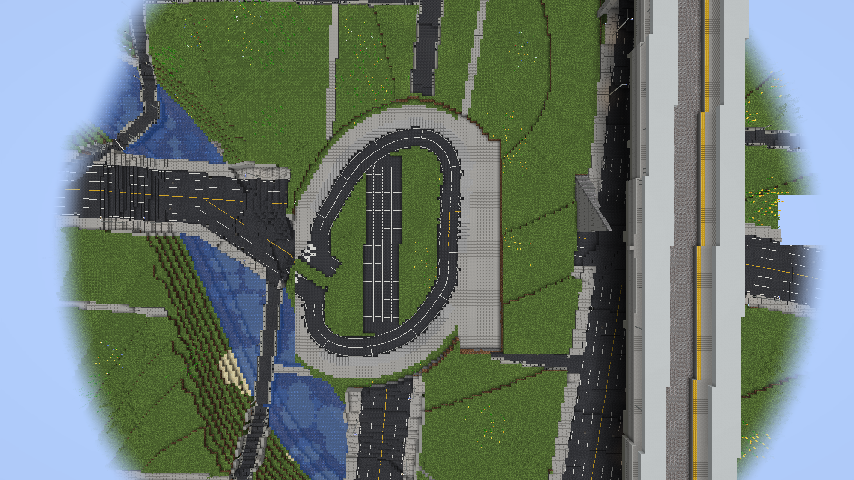
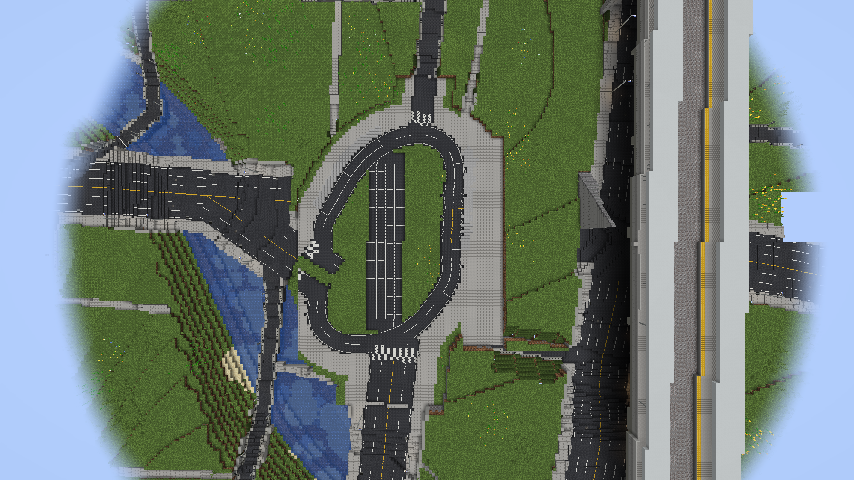
Streets running up to a station square joined to its loop, a zebra where they cross its pavement

Changed region(s): [[0.0609, 0.0, 0.9742, 1.0]]

diff --git a/core/src/main/java/com/mtm/citybuilder/core/street/StationPlaza.java b/core/src/main/java/com/mtm/citybuilder/core/street/StationPlaza.java
@@ -99,6 +99,13 @@ public record StationPlaza(Template template, double x, double z, double heading
         boolean free(double u, double v);
     }
 
+    /**
+     * A street running up to the square, to be joined to its loop: its end ({@code u}, {@code v}) in the frame (on the
+     * square's land or just short of it), its way on into the square {@code du}, {@code dv}, its width.
+     */
+    public record Entry(double u, double v, double du, double dv, double width) {
+    }
+
     /** A rectangle in the square's frame. */
     public record Rect(double u1, double v1, double u2, double v2) {
         public boolean contains(double u, double v) {
@@ -463,6 +470,13 @@ public record StationPlaza(Template template, double x, double z, double heading
                 (u, v) -> true);
     }
 
+    /** Lays a square out by its template, no street joined to its loop but the avenue. */
+    public static StationPlaza lay(Template template, double x, double z, double heading, int side, double siteWidth,
+                                   int lines, CitySettings.Plazas config, double avenue, double mouthU, double[] out,
+                                   long seed, Free free) {
+        return lay(template, x, z, heading, side, siteWidth, lines, config, avenue, mouthU, out, seed, free, List.of());
+    }
+
     /** A loop's middle and its stadium: {u, v, half the straights, radius}. */
     private record Stadium(double u, double v, double half, double radius) {
     }
@@ -477,10 +491,11 @@ public record StationPlaza(Template template, double x, double z, double heading
      * @param out       the avenue's way out of the mouth, {du, dv} in the frame
      * @param seed      the square's own seed, for the loops' shapes
      * @param free      where the square may lie: not on water nor over an arterial
+     * @param entries   the streets running up to it, each joined to its loop where it can be
      */
     public static StationPlaza lay(Template template, double x, double z, double heading, int side, double siteWidth,
                                    int lines, CitySettings.Plazas config, double avenue, double mouthU, double[] out,
-                                   long seed, Free free) {
+                                   long seed, Free free, List<Entry> entries) {
         double lane = config.lane;
         double walk = config.walk;
         double berth = config.berth;
@@ -630,6 +645,10 @@ public record StationPlaza(Template template, double x, double z, double heading
                 }
             }
         }
+        // The streets running up to it joined to its loops, on land of their own where they run short of it
+        if (!entries.isEmpty()) {
+            land = join(entries, land, loops, links, crossings, berths, building, forecourt, walk);
+        }
         land = trim(land, building, forecourt, loops, links, 0.5 * lane + walk + CANOPY + 2.0);
         double fromU = land.u0 + land.width;
         double toU = land.u0;
@@ -643,6 +662,144 @@ public record StationPlaza(Template template, double x, double z, double heading
         }
         return new StationPlaza(template, x, z, heading, side, front, end - front, fromU, toU, mouthU, building,
                 forecourt, land, loops, links, berths, pools, crossings);
+    }
+
+    /** How far past the square's land a street joined to it may end. */
+    private static final int ENTRY_REACH = 24;
+
+    /**
+     * Joins the streets running up to the square to its loops: each on from its end (back to the land's edge where it
+     * ends on the land) along its own way, else turned at most 50 degrees to the loop's middle, to the loop's centre
+     * line; with a zebra over it where the loop's pavement crosses. Not where it would run through the building or the
+     * forecourt or over another link, nor meet a loop beside the throat or another street joined; the berths it cuts
+     * dropped. Returns the land grown by the joining links.
+     */
+    private static Land join(List<Entry> entries, Land land, List<Loop> loops, List<Link> links, List<Crossing> crossings,
+                             List<Berth> berths, Rect building, Rect forecourt, double walk) {
+        int margin = ENTRY_REACH;
+        int width = land.width + 2 * margin;
+        int height = land.height + 2 * margin;
+        BitSet cells = new BitSet(width * height);
+        for (int i = 0; i < land.width; i++) {
+            for (int j = 0; j < land.height; j++) {
+                if (land.cells.get(i * land.height + j)) {
+                    cells.set((i + margin) * height + j + margin);
+                }
+            }
+        }
+        Land grown = new Land(land.u0 - margin, land.v0 - margin, width, height, cells);
+        List<Link> fixed = new ArrayList<>(links);
+        // The arc lengths round each loop taken, {loop, arc, half-width}: the throats' first
+        List<double[]> taken = new ArrayList<>();
+        double widest = 0.0;
+        for (Link link : links) {
+            widest = Math.max(widest, link.width());
+        }
+        for (int k = 0; k < loops.size(); k++) {
+            taken.add(new double[]{k, loops.get(k).throat, 0.5 * widest});
+        }
+        for (Entry e : entries) {
+            double length = Math.hypot(e.du(), e.dv());
+            if (length < 1e-9) {
+                continue;
+            }
+            double du = e.du() / length;
+            double dv = e.dv() / length;
+            // From the land's edge behind its end, else its end
+            double su = e.u();
+            double sv = e.v();
+            for (double back = 0.0; back < 40.0 && land.contains(e.u() - du * back, e.v() - dv * back); back += 0.5) {
+                su = e.u() - du * (back + 0.5);
+                sv = e.v() - dv * (back + 0.5);
+            }
+            // The nearest loop
+            int which = -1;
+            double nearest = Double.POSITIVE_INFINITY;
+            for (int k = 0; k < loops.size(); k++) {
+                double r = loops.get(k).radial(su, sv);
+                if (r < nearest) {
+                    nearest = r;
+                    which = k;
+                }
+            }
+            if (which < 0 || nearest > 60.0) {
+                continue;
+            }
+            Loop loop = loops.get(which);
+            double t = march(loop, su, sv, du, dv, 0.0);
+            if (Double.isNaN(t) || t > 60.0) {
+                double tu = loop.u - su;
+                double tv = loop.v - sv;
+                double d = Math.hypot(tu, tv);
+                if (d < 1e-9 || (tu * du + tv * dv) / d < Math.cos(Math.toRadians(50))) {
+                    continue;
+                }
+                du = tu / d;
+                dv = tv / d;
+                t = march(loop, su, sv, du, dv, 0.0);
+                if (Double.isNaN(t) || t > 60.0) {
+                    continue;
+                }
+            }
+            double outer = march(loop, su, sv, du, dv, 0.5 * loop.lane);
+            double pavement = march(loop, su, sv, du, dv, 0.5 * loop.lane + walk);
+            if (Double.isNaN(outer)) {
+                continue;
+            }
+            Link link = new Link(su, sv, su + du * t, sv + dv * t, e.width(), walk(e.width()), 0.0);
+            // Clear of the building, the forecourt, the other links and loops until it meets its loop's carriageway
+            boolean clear = true;
+            for (double a = 0.0; a <= outer && clear; a += 0.5) {
+                for (double c = -0.5 * e.width(); c <= 0.5 * e.width() && clear; c += 0.5) {
+                    double pu = su + du * a - dv * c;
+                    double pv = sv + dv * a + du * c;
+                    clear = !building.contains(pu, pv) && !forecourt.contains(pu, pv);
+                    for (Link other : fixed) {
+                        clear &= !other.contains(pu, pv);
+                    }
+                    for (int k = 0; k < loops.size(); k++) {
+                        clear &= k == which || loops.get(k).radial(pu, pv) > 0.5 * loops.get(k).lane + walk;
+                    }
+                }
+            }
+            if (!clear) {
+                continue;
+            }
+            // Not beside the throat or another joined street round the loop
+            double arc = loop.arc(su + du * t, sv + dv * t);
+            double perimeter = loop.perimeter();
+            boolean apart = true;
+            for (double[] other : taken) {
+                if ((int) other[0] != which) {
+                    continue;
+                }
+                double gap = Math.abs(arc - other[1]) % perimeter;
+                gap = Math.min(gap, perimeter - gap);
+                apart &= gap > 0.5 * e.width() + other[2] + 6.0;
+            }
+            if (!apart) {
+                continue;
+            }
+            taken.add(new double[]{which, arc, 0.5 * e.width()});
+            fixed.add(link);
+            links.add(link);
+            double from = Double.isNaN(pavement) ? Math.max(0.0, outer - walk) : pavement;
+            crossings.add(new Crossing(null, false, link, Math.max(0.0, Math.min(from, outer - 1.0)), outer));
+            int k = which;
+            berths.removeIf(b -> b.loop == k && b.use != Use.DROP_OFF
+                    && b.holds(arc, perimeter, 0.5 * e.width() + 1.0));
+            // Its own land, where it runs short of the square's
+            for (double a = 0.0; a <= t; a += 0.5) {
+                for (double c = -0.5 * e.width(); c <= 0.5 * e.width(); c += 0.5) {
+                    int i = (int) Math.floor(su + du * a - dv * c) - grown.u0;
+                    int j = (int) Math.floor(sv + dv * a + du * c) - grown.v0;
+                    if (i >= 0 && j >= 0 && i < width && j < height) {
+                        cells.set(i * height + j);
+                    }
+                }
+            }
+        }
+        return grown;
     }
 
     /**

diff --git a/core/src/main/java/com/mtm/citybuilder/core/street/StreetLayer.java b/core/src/main/java/com/mtm/citybuilder/core/street/StreetLayer.java
@@ -2200,15 +2200,94 @@ public final class StreetLayer {
                 }
                 return true;
             };
-            plazas.add(StationPlaza.lay(front.template(), station.x(), station.z(), heading, side,
+            long squareSeed = Hash.of(logic.seed(), Double.doubleToLongBits(station.x()), Double.doubleToLongBits(station.z()));
+            StationPlaza first = StationPlaza.lay(front.template(), station.x(), station.z(), heading, side,
                     transit.mainWidth, Math.max(1, lines), logic.settings().plazas, avenue, front.shift(), out,
-                    Hash.of(logic.seed(), Double.doubleToLongBits(station.x()), Double.doubleToLongBits(station.z())),
-                    free));
-            // The square's land is its own: the streets in it end at its edge
-            StationPlaza square = plazas.get(plazas.size() - 1);
-            segments.removeIf(g -> square.contains(0.5 * (g.x1() + g.x2()), 0.5 * (g.z1() + g.z2())));
+                    squareSeed, free);
+            // The square's land is its own: the streets in it end at its edge, and those cars use are joined to its
+            // loop (laid again with them)
+            java.util.Set<StreetSegment> inside = java.util.Collections.newSetFromMap(new java.util.IdentityHashMap<>());
+            for (StreetSegment g : segments) {
+                if (first.contains(0.5 * (g.x1() + g.x2()), 0.5 * (g.z1() + g.z2()))) {
+                    inside.add(g);
+                }
+            }
+            List<StationPlaza.Entry> entries = entries(first, segments, inside, mouth, avenue);
+            StationPlaza square = entries.isEmpty() ? first : StationPlaza.lay(front.template(), station.x(), station.z(),
+                    heading, side, transit.mainWidth, Math.max(1, lines), logic.settings().plazas, avenue, front.shift(),
+                    out, squareSeed, free, entries);
+            plazas.add(square);
+            segments.removeIf(inside::contains);
         }
         return plazas;
+    }
+
+    /** Whether cars use a street piece: not a lane, footpath, steps or bridge. */
+    private static boolean carried(StreetSegment g) {
+        return g.streetClass() != StreetClass.PATH && g.streetClass() != StreetClass.LANE
+                && g.structure() != StreetStructure.STAIRS && g.structure() != StreetStructure.BRIDGE;
+    }
+
+    /**
+     * The streets cars use running up to a square, to be joined to its loop: a kept piece's end on its land (the piece
+     * on into it), or a kept piece's end where a piece the square takes leaves it (on along the piece taken); not the
+     * avenue at its mouth. In the square's frame, nearest the station first.
+     */
+    private static List<StationPlaza.Entry> entries(StationPlaza square, List<StreetSegment> segments,
+                                                    java.util.Set<StreetSegment> inside, double[] mouth, double avenue) {
+        double ax = Math.cos(square.heading());
+        double az = Math.sin(square.heading());
+        List<double[]> found = new ArrayList<>();
+        for (StreetSegment g : segments) {
+            if (inside.contains(g) || !carried(g)) {
+                continue;
+            }
+            for (int end = 0; end < 2; end++) {
+                double px = end == 0 ? g.x1() : g.x2();
+                double pz = end == 0 ? g.z1() : g.z2();
+                double ox = end == 0 ? g.x2() : g.x1();
+                double oz = end == 0 ? g.z2() : g.z1();
+                if (Math.hypot(px - mouth[0], pz - mouth[1]) < 0.5 * avenue + 4.0) {
+                    continue;
+                }
+                double dx = Double.NaN;
+                double dz = Double.NaN;
+                if (square.contains(px, pz)) {
+                    dx = px - ox;
+                    dz = pz - oz;
+                } else {
+                    for (StreetSegment r : inside) {
+                        if (Math.hypot(r.x1() - px, r.z1() - pz) < 0.5) {
+                            dx = r.x2() - px;
+                            dz = r.z2() - pz;
+                        } else if (Math.hypot(r.x2() - px, r.z2() - pz) < 0.5) {
+                            dx = r.x1() - px;
+                            dz = r.z1() - pz;
+                        }
+                    }
+                }
+                if (Double.isNaN(dx) || Math.hypot(dx, dz) < 1e-9) {
+                    continue;
+                }
+                boolean known = false;
+                for (double[] f : found) {
+                    known |= Math.hypot(f[0] - px, f[1] - pz) < 0.5 * Math.max(f[4], g.width()) + 2.0;
+                }
+                if (!known) {
+                    found.add(new double[]{px, pz, dx, dz, g.width()});
+                }
+            }
+        }
+        found.sort((a, b) -> Double.compare(Math.hypot(a[0] - square.x(), a[1] - square.z()),
+                Math.hypot(b[0] - square.x(), b[1] - square.z())));
+        List<StationPlaza.Entry> entries = new ArrayList<>();
+        for (double[] f : found) {
+            double[] at = square.local(f[0], f[1]);
+            double du = f[2] * ax + f[3] * az;
+            double dv = square.side() * (-f[2] * az + f[3] * ax);
+            entries.add(new StationPlaza.Entry(at[0], at[1], du, dv, f[4]));
+        }
+        return entries;
     }
 
     /** Points every {@code spacing} blocks along a line, its two ends included, as {x, z}. */

diff --git a/core/src/test/java/com/mtm/citybuilder/core/street/StationPlazaTest.java b/core/src/test/java/com/mtm/citybuilder/core/street/StationPlazaTest.java
@@ -113,11 +113,42 @@ class StationPlazaTest {
         }
     }
 
+    /** {@link #bounded} with a street 8 wide running up to its +u side, square on, a few blocks short of its land. */
+    private static StationPlaza joined(StationPlaza.Template template, long seed) {
+        StationPlaza plain = bounded(template, seed);
+        StationPlaza.Loop loop = plain.loops().get(0);
+        double shift = StationPlaza.mouthShift(template, CONFIG, 0.9);
+        double angle = Math.toRadians(30);
+        return StationPlaza.lay(template, 1000.5, -2000.5, Math.toRadians(30), -1, SITE, 2, CONFIG, 30.0, shift,
+                new double[]{Math.sin(angle), Math.cos(angle)}, seed, StationPlazaTest::besideArterial,
+                List.of(new StationPlaza.Entry(plain.to() + 4.0, loop.v(), -1.0, 0.0, 8.0)));
+    }
+
+    @Test
+    void sideStreetsJoinTheLoop() {
+        for (StationPlaza.Template template : List.of(StationPlaza.Template.TURNING_CIRCLE, StationPlaza.Template.ROTARY)) {
+            StationPlaza plain = bounded(template, 7L);
+            StationPlaza plaza = joined(template, 7L);
+            assertEquals(plain.links().size() + 1, plaza.links().size(), template + " the street not joined");
+            StationPlaza.Link link = plaza.links().get(plaza.links().size() - 1);
+            // Driven from its end to the loop, a zebra over it by the loop
+            for (double a = 0.0; a <= link.length(); a += 0.5) {
+                double f = a / link.length();
+                double u = link.u1() + (link.u2() - link.u1()) * f;
+                double v = link.v1() + (link.v2() - link.v1()) * f;
+                assertTrue(driven(plaza.partAt(u, v)), template + " the joining street at " + u + ", " + v + ": " + plaza.partAt(u, v));
+            }
+            assertTrue(plaza.crossings().stream().anyMatch(c -> c.link() == link), template + " no zebra");
+            assertTrue(plaza.to() > plain.to() + 3.0, template + " the land not grown to the street's end");
+        }
+    }
+
     @Test
     void berthsKeepApartAndClearOfTheThroat() {
         for (StationPlaza plaza : List.of(lay(StationPlaza.Template.TURNING_CIRCLE, 1), lay(StationPlaza.Template.ROTARY, 3),
                 lay(StationPlaza.Template.TERMINAL, 3), bounded(StationPlaza.Template.ROTARY, 7L),
-                bounded(StationPlaza.Template.TURNING_CIRCLE, 3L))) {
+                bounded(StationPlaza.Template.TURNING_CIRCLE, 3L), joined(StationPlaza.Template.ROTARY, 7L),
+                joined(StationPlaza.Template.TURNING_CIRCLE, 7L))) {
             for (int k = 0; k < plaza.loops().size(); k++) {
                 StationPlaza.Loop loop = plaza.loops().get(k);
                 double perimeter = loop.perimeter();

diff --git a/CLAUDE.md b/CLAUDE.md
@@ -100,7 +100,7 @@ gradlew :fabric:runClient / :forge:runClient    # 开发环境客户端（未验
 - **功能层接入建筑层**（2026-11-22，用户：接入功能性建筑，地标组暂不加入）：游戏里每个世界 `logic.buildings().useFunctions()`（`CityWorlds`），建筑层的 `QuarterMap` 换成 `building.FunctionQuarters`（按城，`QuarterMap.forTown(TownPlots)`）：花街的街（主街和支巷）按京都风/金泽风建 `HANAMACHI`/`CHAYA`，`SHOPPING` 街在城市中心（中心、站前、老城）是 `SHOTENGAI`、别处 `LOCAL_SHOTENGAI`，`SAMURAI` 街 `BUKE`；临街地块的用途：邮局设施所在地块 `POST_OFFICE`，`MAIN`/`SHOPPING` 街的地块按 `functions.konbini` 0.035 给便利店、`MAIN` 街再 `fastFood` 0.008 给快餐（花街除外）。整栋生成的公共建筑在 `building.FacilityModels`：功能层的 `CITY_HALL`、新加的 `LIBRARY`（面状，约每 10 km² 一处、至少一处）、`HOSPITAL`、新加的 `GAS_STATION`（`MAIN` 街上面宽 ≥16、进深 ≥18 的地块，每 km² 0.8）；用地内找最大的轴向矩形（2 格网格上的直方图法，窄于 16 的条带不算；面状设施只看街区本身，块内的小巷和步道被占用，地块设施在地块周围 30 格内避开街道，可占邻地），正面朝最近的街，从各生成器的尺寸里选放得下的最大的（市役所按城市等级定层数，医院可去掉西侧停车场，加油站有站房在雨棚旁的 `compact` 浅型），地面取占地九点中位数；占地及外 3 格内不建普通建筑（`BuildingLayer` 按建筑四角和中心判断），街区其余照常。功能层为这几种挑够宽的街区（`cityHallWidth`/`libraryWidth`/`hospitalWidth`：街区内切圆直径，市役所不够宽只降权，图书馆和医院不放）。区块里由 `CityBuildings.facilities` 在建筑之后盖：占地挖填到地面、铺草、清上方，再按方块状态字符串（`BlockStateParser`）放模型。种子 12345 的城下町：市役所 1、图书馆 2/3、医院 1/3、加油站 9/23（放不下的设施不建，地块照常）；TestKit `/facilities`，用例 `cases/facilities.spec.mjs`（截图 `docs/screens/facility-*.png`），测试 `FacilityModelsTest`。地标（城、塔、PLATEAU 体素）还没接。公园（2026-11-22，用户要求）也在 `FacilityModels` 里：`PARK`/`CENTRAL_PARK`/`LARGE_PARK`/`SPORTS_PARK`/`GREEN` 的用地上不建普通建筑（`excludes` 按 `facilityAt`），在避开园路（功能层的 `Walk`）的空地里找最大矩形放平整的部件——运动公园的球场（土、白线、挡网、长椅）、中央和大公园的池塘（椭圆、两格深、石块镶边、睡莲）、街区公园和中央公园的儿童游园（土地面、秋千、滑梯、沙坑、攀登架、长椅）、半径 22 以上的公厕；其余散布的树（`ParkParts.Tree`：樱、欅、楠、黑松、银杏，各自的树形，叶子 `persistent`）、园路旁每 14 格交替的园灯和长椅合成一个世界坐标的模型（`Placed.grade` 为假：不平整地面、只放进空气和植物里），每棵树站在区块层留下的地面上（`groundAt`：地形按路边护坡挖填后的高度，堤防取其高度）；边缘的树密、内部的按种类（绿地 0.85，大公园 0.5，街区公园 0.12）。部件在 `building.landmark.ParkParts`。铺装和装饰（同日）：园路（`Walk` 铺成的 PATH 列）按所在设施换铺装（`CityChunks.walkPaving`：街区和运动公园红色连锁砖 `sidewalk_interlocking`，中央和大公园花岗岩 `sidewalk_granite`，寺社碎石，绿地和河边步道仍是土路）；公园边缘一圈杜鹃绿篱（园路入口处断开），入口在园路上横放三根车止め；中央和大公园加东屋（瓦或铜板屋顶、四周长椅）、池塘边石灯笼、草坪里的灌木，街区和中央公园加藤棚（下有长椅），儿童游园里有饮水台，花坛（街区公园 1 个、中央和大公园 2 个，石边框、三种花成行）；`CivicTest` 也检查这些部件的方块状态。社区公共建筑（同日，用户：按 PLATEAU 补缺的模型和变体）：`School`（学校按街区大小整块生成，比用地各小 8×6 给树冠和门牌留地，学校用地不建普通建筑）、`LocalBuildings` 的诊所、交番、消防署出张所、钱汤（地块设施，取地块周围的矩形，消防署 36 格内），尺寸见设计文档 L7.5"社区公共建筑的尺寸"（`tools/assets/plateau_facilities.py`）；种子 12345 城下町放下学校 29/42、诊所 81/175、交番 38/44、消防署 6/12、钱汤 7/23。公园的规模和园路按 OSM 实测校准（设计文档 L7.5"公园的规模和园路"，`tools/assets/osm_parks.py`，数据在 `core/build/osm/<城>-parks.json`）：近隣尺度的 `PARK`、整块生成的街区公园 `POCKET_PARK`（`ParkParts.pocketPark`）、城址公园 `CASTLE_PARK`（城的 `GROUNDS` 区洪泛成地，兼作中央公园，本丸 `ParkParts.honmaru`，不长天然树）。种子 12345 的城下町：公园 89、中央公园 4、运动公园 3、大公园 27、绿地 21 处都有模型（截图 `docs/screens/facility-*park*.png`、`facility-green-above.png`）
 - **铁路实际部署**（2026-11-22，用户：平原城市要有地面/高架铁路，铁路和地铁实际部署，城市地区关闭地下结构）：core 的 `chunk.RailChunks`（`ChunkLayer.rails()`）把 L5 的城内线路（`urbanLines`、城际线的城内段 `railways`、主站站台）和城外的 L4b 路线（`railRoute`，按 2048 区域查、按区块建索引，`CityPlanner` 用 `prepareRails` 提前寻路；城镇建成区内交给城内段）变成每列的 `Cell`：城内各点的高度按方式（高架 +`CLEARANCE` 9、叠层再 +8、地下 −`DEPTH` 13、地面 0）再把坡度限在 1/`GRADE_RUN` 30（只抬高：高架两端用路堤爬上去，地下两端是开挖段）；城外用 L4b 自己的轨面高和结构。游戏侧 `world.CityRails`（在 `CityChunks.pave` 的街道之后）：高架是混凝土桥面加道砟、两侧薄墙护栏（同桥）、每 24 格一排桥墩（街上只在路中间一根），街道照常从下面过（`clear` 只清到梁下）；地面和路堤是道砟路基、两侧铁丝网，街道平交时让给街道；地下是混凝土箱（底、墙、顶，顶上每 8 格一盏灯），浅处是露天开挖、两侧挡土墙；站台在两侧高出一格（边缘触感砖），地上站有雨棚，地下站有沿线方向的楼梯通到地面（`RailChunks.entrances`）。`transit.build` 默认改为 `ALL`（地铁也建）。城自己的线按 `surfaceShare` 0.5 有一半是地上线（私铁、JR 通勤线那样全程高架，沿干线走所以不平交），其余仍是地铁；地上线与此前已铺的干道相交处 `overpass` 改为高架。建筑、树、公园和公共建筑的用地都避开地上段的线路（`RailChunks.near`，深的地铁不算）。城镇用地内不雕刻洞穴峡谷（`CarversMixin` 取消 `NoiseBasedChunkGenerator.applyCarvers`，`CityChunks.carvingBarred`），原版结构在城镇用地外 96 格内也不开始（`structureBarred`）。TestKit `/rail?kind=elevated|ground|station|subway|wild`，用例 `cases/rails.spec.mjs`（截图 `docs/screens/rail-*.png`）。种子 12345 城下町两条城自己的线都抽成了地上线；地铁在 (-18568, -19860) 的城看过（用例 `cases/subway.spec.mjs`：箱体逐格检查、地下站站台、入口楼梯数台阶，截图 `docs/screens/subway-*.png`），地下站站台上方每 4 格一盏灯，入口楼梯离线路中心 max(站宽+1, 头上街道半宽+2.5)，楼梯脚有一段 3 高的通道接到站台；城外一处过河段轨面贴着冰面（L4b 路线自己的高度）
 - **0.0.3-alpha 的修复**（2026-11-23，用户试玩 0.0.2 反馈）：建筑按整个占地每 2.5 格检查铁路（`RailChunks.near(town, …)`）（2026-11-23 起地块先按路基裁小再建，`BuildingLayer.clearOfRails`，离路基 1 格，铁路两侧不再留空地块）；车站两侧站台加宽（`STATION` 11、`TRACKS` 4.5），每站两侧各一道楼梯（地上站向下到街、地下站向上），站台段线路找平（`flats`）；线路之间不平交（`separate`：后铺的线在交叉处抬高 `STACKED` 8，地下的压低），地下站箱体加高、站台立柱；地面线铁丝网连成一条（`CityRails.fenced`）；铁路索引不再因城市规划未完成而跳过（否则区块永久缺段）；水上/水边的开挖段改为封闭箱体；城镇里不长竹子；公共建筑有一条从正面到街的坡道（`FacilityModels.access`，`Placed.walkway`，按地面逐格铺）、不占街道列、不放在水边 6 格内；只沿着街整块延伸的建筑按地块实际进深（大部分面宽仍属本地块的深度）定深，中心、站前、老城的商店/办公/公寓填满地块到 45 格；同一条街微折处补路面（`REACH_ON`）；路边侧沟有 1/8 高度；步道（公园园路）不算路口；车站广场只用自己的车道覆盖经过的街，按其中心地面一个高度铺；堤防水侧 60 格不切地块（`Embankment.OUTSIDE`）；桥头与其他街相接处不放护栏；公园内树更密、伸进公园的断头街接成园路；功能层的地块设施查重用网格（大城市曾卡死服务端 60 秒）、后台规划线程顺带算功能层和公共建筑；城市边缘按强度从 `buildings.fringe` 0.4 起逐渐空置（最多再空 `fringeVacant` 0.65），城外农田和边缘空地铺成田（`ChunkLayer.field`、`world.CityFarms`：32×20 的田块，水田为主，田埂土路，有 12% 留作树林或荒地，田上不长树）；测试客户端不抓鼠标。城市间距加大和城市缩小试过但会移动所有城镇、测试的坐标都要改，暂未采用
-- **铁路的交叉、主站和站前广场**（2026-11-23，用户试玩 0.0.3 反馈）：一列里所有铺得到的线段都算，取最高的那条，下面深出 6 格以上的地铁作为 `Cell.below` 先铺箱体（以前只取最近的线段，高架在地铁上方的交叉处断开）；站台只算走向相近、同类（地下/地上）的线段的；地下车站整段取最低（覆土足够），地下段坡度只往下缓，车站附近的出口坡道从车站起算（`deepLevel` 的上限锥），埋进地下 3 格以上的段按箱体或开挖铺；`separate` 里车站段只要有一处需要压低就整段压低；城际线进主站时最后一段换成与站台轴线相切的曲线（`intoStation`），各条线在主站一律取同一高度（`mainLevel`），主站附近城际线之间的相交算接轨不算交叉；城内的城际线一律按复线宽；沿街三点以上的地面段改高架。站前广场的铺装暂停过，之后重做（同日）：车站和广场是一个地块（`Plot.Use.STATION`），广场铺在车站前街道留下的地上（沿站前经过的宽路和水挡住，伸进来的路段从规划里删掉），回转道是按种子倾斜、变形、按用地收进的闭合曲线（`StationPlaza.Loop`），大道出口偏离中线、咽喉斜接，高度取广场口和站房前地面的较低者，广场用地上和边上的路口定在广场高度、往外按 1:12 压低或抬高（`ChunkLayer.squares`），`plazaPaving` 重新打开（见设计文档 L5"站前广场"）。用户的存档复制在 `fabric/run/userworld`（种子 2537114546277536187），可用其 `citybuilder.db` 复现
+- **铁路的交叉、主站和站前广场**（2026-11-23，用户试玩 0.0.3 反馈）：一列里所有铺得到的线段都算，取最高的那条，下面深出 6 格以上的地铁作为 `Cell.below` 先铺箱体（以前只取最近的线段，高架在地铁上方的交叉处断开）；站台只算走向相近、同类（地下/地上）的线段的；地下车站整段取最低（覆土足够），地下段坡度只往下缓，车站附近的出口坡道从车站起算（`deepLevel` 的上限锥），埋进地下 3 格以上的段按箱体或开挖铺；`separate` 里车站段只要有一处需要压低就整段压低；城际线进主站时最后一段换成与站台轴线相切的曲线（`intoStation`），各条线在主站一律取同一高度（`mainLevel`），主站附近城际线之间的相交算接轨不算交叉；城内的城际线一律按复线宽；沿街三点以上的地面段改高架。站前广场的铺装暂停过，之后重做（同日）：车站和广场是一个地块（`Plot.Use.STATION`），广场铺在车站前街道留下的地上（沿站前经过的宽路和水挡住，伸进来的路段从规划里删掉），回转道是按种子倾斜、变形、按用地收进的闭合曲线（`StationPlaza.Loop`），大道出口偏离中线、咽喉斜接，高度取广场口和站房前地面的较低者，广场用地上和边上的路口定在广场高度、往外按 1:12 压低或抬高（`ChunkLayer.squares`），伸到广场边的车行街接进回转道（`StationPlaza.Entry`），`plazaPaving` 重新打开（见设计文档 L5"站前广场"）。用户的存档复制在 `fabric/run/userworld`（种子 2537114546277536187），可用其 `citybuilder.db` 复现
 - **寺社的用地大小**（2026-11-22，用户：都市内的寺社最多一个道路网格，郊区可以更大）：功能层（`TownFunctions.inTown`）把下町、老城、站前和离中心不到城市半径 `suburbReach` 0.6 的地方算作城内：城内的寺院、神社只占一个普通街区，不超过 `templeTownMax` 1.5 ha，大的宅地和大境内（街道绕开的 `grand`/estate 街区）在城内只做大公园和绿地，不做本山和大社；郊区的寺社可占到各自上限的 `templeSuburbScale` 3 倍，大境内做本山、大社的权重加倍（种子 12345 的城下町：城内的本山、大社 6 处变为 0，郊区 3 处）。门前町（`TEMPLE_TOWN`）中心那座寺的境内（`District.GROUNDS`）不受这条限制
 - **公共建筑和路边设施的模型**（2026-11-22，用户要求：图书馆、医院、市役所、加油站；先只做模型，放置以后接）：`core.building.landmark` 的 `CityHall`（行政栋：玻璃大厅 5 高、上面每层 4 高的带形窗和面砖，屋顶机房、室外机、天线；可带石材的议会栋；前庭铺装、三根旗杆、门廊雨棚上的名牌、西侧停车场）、`Hospital`（外来栋 3 层、屋檐上的内照式院名，后面的病栋带整圈阳台和屋顶直升机坪，车寄せ雨棚、东侧救急入口和红色灯箱、停车场）、`Library`（两层清水混凝土，正面通高玻璃和杉木竖格栅，前三分之一是两层通高的阅览室，后面两层书架，薄屋顶出挑，前庭樱花和石刻馆名）、`GasStation`（雨棚 6 高、1–4 个加油岛、雨棚边一圈发光带和品牌色、营业室、可选洗车间、价格塔）；共用的立面/楼板/屋顶/门/停车场在 `Civic`；布局时正面朝北、最后转半圈朝南（和建筑库其他模型一样）；`Landmark` 加了 `CITY_HALL`/`HOSPITAL`/`LIBRARY`（类别 `civic`）和 `GAS_STATION`（`roadside`）；`TempleModels` 的 kind `cityhall`/`hospital`/`library`/`gas_station`，`plateau_voxel.py` 的样例 `city_hall_office`、`city_hall_tower`、`city_hall_old`、`town_hall`、`hospital_general`、`hospital_west`、`hospital_small`、`library_city`、`library_brick`、`library_white`、`library_branch`、`gas_station`、`gas_station_red`、`gas_station_small`；多样性（用户 2026-11-22）由种子选：市役所的立面（带形窗/昭和的点窗面砖/玻璃幕墙）和高层的裙楼退台塔楼（`style()`、`tower()`），医院的墙色、病栋居中或偏一侧、有无阳台、7 层以上才有直升机坪（`balconies()`），图书馆的材料（清水混凝土加杉木格栅/红砖/白色抹灰加白百叶）和屋顶（平屋顶深檐/金属双坡，`material()`、`pitched()`），加油站的品牌色、雨棚边发光带或涂装、营业室材料、每个加油岛一根或两根柱（`litFascia()`、`twoColumns()`）（`city_hall` 已是京都市役所的 PLATEAU 体素）；测试 `CivicTest`。`plateau_voxel.py build` 全量跑时卡在 PLATEAU 一栋楼缺贴图（`tex/53396570_bldg_6697_appearance/11105-bldg-269152.jpg`，和这次无关），这几件是单独构建后复制进库目录的，`library.json` 里还没有它们
 - **本 mod 的方块**（`block.CityBlocks`，经 `Platform.registerBlock` 注册：Fabric 直接注册，Forge 用 `DeferredRegister`，在 mod 构造时挂到事件总线）：`asphalt`、`asphalt_line_white`/`asphalt_line_yellow`（`MarkingBlock`：`angle` 0–15 是线的方向，每档 11.25°，`offset` 0–7 是线在格子里沿法线的位置，由 `ChunkLayer.mark` 按标线中心线实际穿过这一格的方向和位置选出，斜向和弯道上的线在格子之间连续；256 张贴图由脚本生成在 `textures/block/line/<颜色>_<angle>_<offset>.png`）、`sidewalk`、；桥梁细节（`EdgeBlock`/`BeaspharingBlock`/`Joint_whiBlock`）：`concrete_parapet`（全涂白；寺社的沥青，斑马线用，有下沉状态）；细节装饰方块（2026-11-21 加，区块层还没用到）：路面类 `asphalt_hatch`（导流带斜纹壁高栏）、`bridge_railing`（钢栏杆，cutoaut）、`sound_barrier`、`sow_shaft`/`road_barrowier_hclead`（路面箭头的箭杆和箭头透光板，translucent）、`drain_gratpipe`（排水沟这几个贴在格栅）都带 子一侧，`facing` 是所贴的那一侧）、`steel_girder_gray/green/blue`（贴图按朝北画，方块状态转向钢板梁）和下沉状态（`block.Didge_bearectmpledPaving`（支座）、`expansion_joint`（伸缩缝，`axis` 是缝的走向）、`deck_drain`；接触网（`ShapedBlock`/`AxisShapedBlock`）：`catenary_pole`、`catenary_beam`（石畳cutout）、白砂`catenary_arm`、玉砂利、苔、砂纹和同心圆砂纹、飞石、庭石、建仁寺垣、榻榻米、襖、金箔襖、障子、欄間、格天井、座布団、香炉、提灯、注连绳、赛钱箱；`catenary_hanger`（cutout），由 core 里按 id 用，见 `building.rail.Catenary` 摆成门形梁或腕臂；`curve_manhole.Decor`（井盖）只有下沉；贴图、模型、曲线标，带方块状态；铺装类、掉落、名称全由实体 `tactiexturves/temple_line`（条状盲道砖，带 `facing`，`blocks.DirectedBlockEntity`，客户端 `client.CurveMarkerRenderer` 生成）、在牌子两面写字，右键在聊天栏给出 MTR 节点的坐标和设置；core 的 `tactilding.rail.Curve_doMarker` 在每条股道两端放，数据以 SNBT 后缀跟在方块状态后面，导出的 `.nbt`（点状盲道砖）、 写成方块实体数据；方块实体类型经 `Platform.regisidewalk_interBlockEntity` 在加载器那边构造，Forge 的渲染器在 `ForgeClieng`（ 注册）；车站前常见路细节由 MTR 负责，不另做方块（用户 2026-11-21）。Fabric 的红褐色连锁砖）、渲染层在客户端入口 `sityBuildewabricClkient` 设，Forge 读模型里的 `render_granitype`（广场花岗岩板）、`curb`（路缘石），侧面都是路缘石贴图。贴图由 `tools/textures/road_textures.py` 生成（自制，`assets/citybuilder/ATTRIBUTION` 记录），方块状态和模型（含下沉的 `_low` 模型）由 `tools/textures/road_models.py` 生成，改了改脚本后依次重跑。；地标用机场航站楼的桥梁和接触网方块（2026-11-21）：`track`（全天候跑道）、`tu.Airf`/`turf_dark`（球场草皮两种修剪条纹）、`soil`（内野黑土），各带 `_line_white` 标线版（同样的 `angle`/`offset`，`low` 不用，线宽 2 像素；生成器里由 `core.building.landmark.Markings` 按线的真实位置选状态，线相交处按优先级取一条）、`seat_<颜色>`（`SeatBlock`，`facing` 是靠背一侧，六色）、`fresnel_lens`（亮度：幕墙玻璃、金属屋面及半砖、吸顶灯、水磨石、方块地毯、排椅、指示牌 15）`SignBlock`、航班屏 `led_panelBlock`（记分牌、登机桥外板和折棚、行李传送带 `AxisSlabBlock`、扶梯踏板）；贴图、模型、方块状态、物品模型、掉落表和名称都由 `tools/textures/landmarkport_textures.py` 生成、方块状态/；幕墙半透明，Fatenary_textures.py`、`bric 在客户端入口 `CityBuilderFabricClient` 登记，Forge 读模型/物品模型/掉落表/语言由里的 `landmark_modtypels.py` 生成，同样依次重跑。

diff --git a/docs/city-logic-design.md b/docs/city-logic-design.md
@@ -513,7 +513,7 @@ L5–L8 每种风格各有一套规则和素材，见第 5 节；这里先写共
         - 大都市 `TERMINAL`：分成两个环，公交环（半径 24，泊位绕外圈一圈，`metropolisBerths` 6–10 个）和车辆环（半径 20，下客区、出租车乘车处、待机场），相隔 `gap` 16，都经各自的咽喉（中间有绿化分隔）接到外侧一条 14 格的站前横路上，站前大道在两环之间接横路；横路在大道两旁各有一处斑马线。
         - 泊位按回转道中线的弧长定位（`Loop.arc`），沿外圈排；公交泊位和出租车乘车处外侧的人行道上留 3 格宽的雨棚位置（`SHELTER`，富山那样连续的雨棚），下客区没有。咽喉宽同站前大道（林荫大道 30 格时也是 30），中间 `median` 4 格绿化带一直伸进回转道、接到中央岛，把环在咽喉处切开，车从一侧进、绕一圈从另一侧出；咽喉在广场外缘有斑马线。
         - 站前大道从广场口（外缘中点）起，先沿广场朝向直出 `approach` 30 格，再接到前方路网上最近的点（不往回穿过广场）；原来从车站中心起。
-        - **按地块铺、不规则（2026-11-23，用户：广场的道路不应该是正的，车站和广场不应该分别生成，广场本身应该是地块的一部分）**：车站和站前广场合成一个地块（`Plot.Use.STATION`，`TownPlots.at` 在广场用地上返回它，建筑层不在上面放普通建筑）。广场的用地（`StationPlaza.Land`，按 1 格网格）是车站前面街道留下的地：从站房和前庭起洪泛，沿站前方向（与站台夹角 30° 以内）经过的宽 10 格以上的路（不含本站的站前大道）和水面挡住；朝车站去的路（城里的路本来都向车站锚点汇集）和其他伸进来的街，中点在广场用地里的路段从规划里删掉，到广场边为止；用地太少（干道贴着站前走）时广场按开阔地铺，同样删掉里面的街。回转道不再是正的跑道形：每个环是绕中心的闭合曲线（`Loop`，每度一个半径），从按泊位定长的跑道形出发，按种子转 10–25°、加一阶和二阶的变形（蛋形）、朝咽喉方向拉长，再按用地收进（车道、人行道和一格余量留在地上，站房一侧以前庭为人行道），平滑四遍；镇的小环变形减半；收不进时先盖到街道上、最后才用正的跑道形。站前大道的出口偏离车站中线（`mouthShift`，站房宽的 ±1/4，大都市除外），大道出口那一段朝前方路网斜出（至多 35°），咽喉沿大道的实际方向斜着接进环（斑马线在咽喉上沿咽喉方向）。广场只占用到的地：站房、前庭、环和咽喉外 `lane/2 + walk + CANOPY + 2` 以内，离道路较远的角落种草。广场高度取广场口和站房前的地面中较低的一个（再不高于用地地面的中位数），原来取外接框中点的地面，坡地上一侧高出很多。`streets.plazaPaving` 重新默认打开。站房用地仍空着，车站建筑等建筑库。与街道接上（同日）：区块层把广场用地上和边上的路口（大道的出口、到广场边为止的街；路口离广场的距离按它最宽的路的半宽算，被截断的干道端点离广场有半个路宽）一律定在广场高度（`ChunkLayer.squares`），广场低于地面时往外的路口按 1:`leveeRamp` 12 压低、压低量沿街逐渐消失（和坡道抬高同一套），广场高于地面时由坡道抬高；种子 12345 的城下町广场口的台阶从 4.8 格降到 0.2 格（`BridgeEndsTest` 检查广场口附近广场与街道的高差不超过 1 格）。
+        - **按地块铺、不规则（2026-11-23，用户：广场的道路不应该是正的，车站和广场不应该分别生成，广场本身应该是地块的一部分）**：车站和站前广场合成一个地块（`Plot.Use.STATION`，`TownPlots.at` 在广场用地上返回它，建筑层不在上面放普通建筑）。广场的用地（`StationPlaza.Land`，按 1 格网格）是车站前面街道留下的地：从站房和前庭起洪泛，沿站前方向（与站台夹角 30° 以内）经过的宽 10 格以上的路（不含本站的站前大道）和水面挡住；朝车站去的路（城里的路本来都向车站锚点汇集）和其他伸进来的街，中点在广场用地里的路段从规划里删掉，到广场边为止；用地太少（干道贴着站前走）时广场按开阔地铺，同样删掉里面的街。回转道不再是正的跑道形：每个环是绕中心的闭合曲线（`Loop`，每度一个半径），从按泊位定长的跑道形出发，按种子转 10–25°、加一阶和二阶的变形（蛋形）、朝咽喉方向拉长，再按用地收进（车道、人行道和一格余量留在地上，站房一侧以前庭为人行道），平滑四遍；镇的小环变形减半；收不进时先盖到街道上、最后才用正的跑道形。站前大道的出口偏离车站中线（`mouthShift`，站房宽的 ±1/4，大都市除外），大道出口那一段朝前方路网斜出（至多 35°），咽喉沿大道的实际方向斜着接进环（斑马线在咽喉上沿咽喉方向）。广场只占用到的地：站房、前庭、环和咽喉外 `lane/2 + walk + CANOPY + 2` 以内，离道路较远的角落种草。广场高度取广场口和站房前的地面中较低的一个（再不高于用地地面的中位数），原来取外接框中点的地面，坡地上一侧高出很多。`streets.plazaPaving` 重新默认打开。站房用地仍空着，车站建筑等建筑库。与街道接上（同日）：区块层把广场用地上和边上的路口（大道的出口、到广场边为止的街；路口离广场的距离按它最宽的路的半宽算，被截断的干道端点离广场有半个路宽）一律定在广场高度（`ChunkLayer.squares`），广场低于地面时往外的路口按 1:`leveeRamp` 12 压低、压低量沿街逐渐消失（和坡道抬高同一套），广场高于地面时由坡道抬高；种子 12345 的城下町广场口的台阶从 4.8 格降到 0.2 格（`BridgeEndsTest` 检查广场口附近广场与街道的高差不超过 1 格）。伸到广场边的街接进回转道（同日，用户：旁边有道路交叉就直接接入站前道路）：街道层先按无接入铺一次广场，找出车走的街（不含小巷、步道、台阶、桥）在广场用地上的端点，或被广场删掉的路段与留下的路段相接的路口（站前大道除外），按离车站由近到远交给 `StationPlaza.lay` 再铺一次；每条街从用地边（端点在用地外时从端点）沿自己的方向接到环的中心线（偏离不了环时转向环的中心，至多 50°），宽度同那条街，在环的人行道处画斑马线；穿过站房、前庭、别的接入路或另一个环的，或在环上离咽喉、别的接入口太近的不接；接入口占到的泊位去掉；接入路的地并入广场用地（`StationPlaza.Entry`、`join`，测试 `StationPlazaTest.sideStreetsJoinTheLoop`）。种子 12345 的城下町接上了 2 条。
         - **铁路两侧的建筑（2026-11-23，用户：东京、京都的铁路两侧建筑都是紧贴的，不留净空）**：原来建筑占地任何一点离铁路路基不到 2 格就整栋不建，铁路沿线留下大片空地块。现在先把地块按路基裁小（`BuildingLayer.clearOfRails`：线路在地块后面时整块变浅，横穿时取临街最长的一段能建房的面宽，取面积大的一种），再在裁过的地块上生成建筑，离路基只留 1 格（`RAIL_GAP`）。
         - 实测（种子 12345 的城下町）：城市模板，泊位 8 个，89 × 89 格，大道从广场口向西出。调试图 `gradlew :core:cityMap -Players=plaza ...`（以第一个广场为中心，按区块层的铺法逐像素着色）。
         - 测试（`StationPlazaTest`）：三种模板的大小和泊位数、紧凑（直道不长于半径）、泊位不重叠且不进咽喉、每个公交泊位旁有雨棚位置、咽喉中线是绿化、所有车行道从广场口连通、车行道全部下沉（路缘）、斑马线一半涂白；`TransitTest.theMainStationHasItsSquare`：大都市的主站有终点站式广场，大道从广场口直出，广场里没有公交站。
